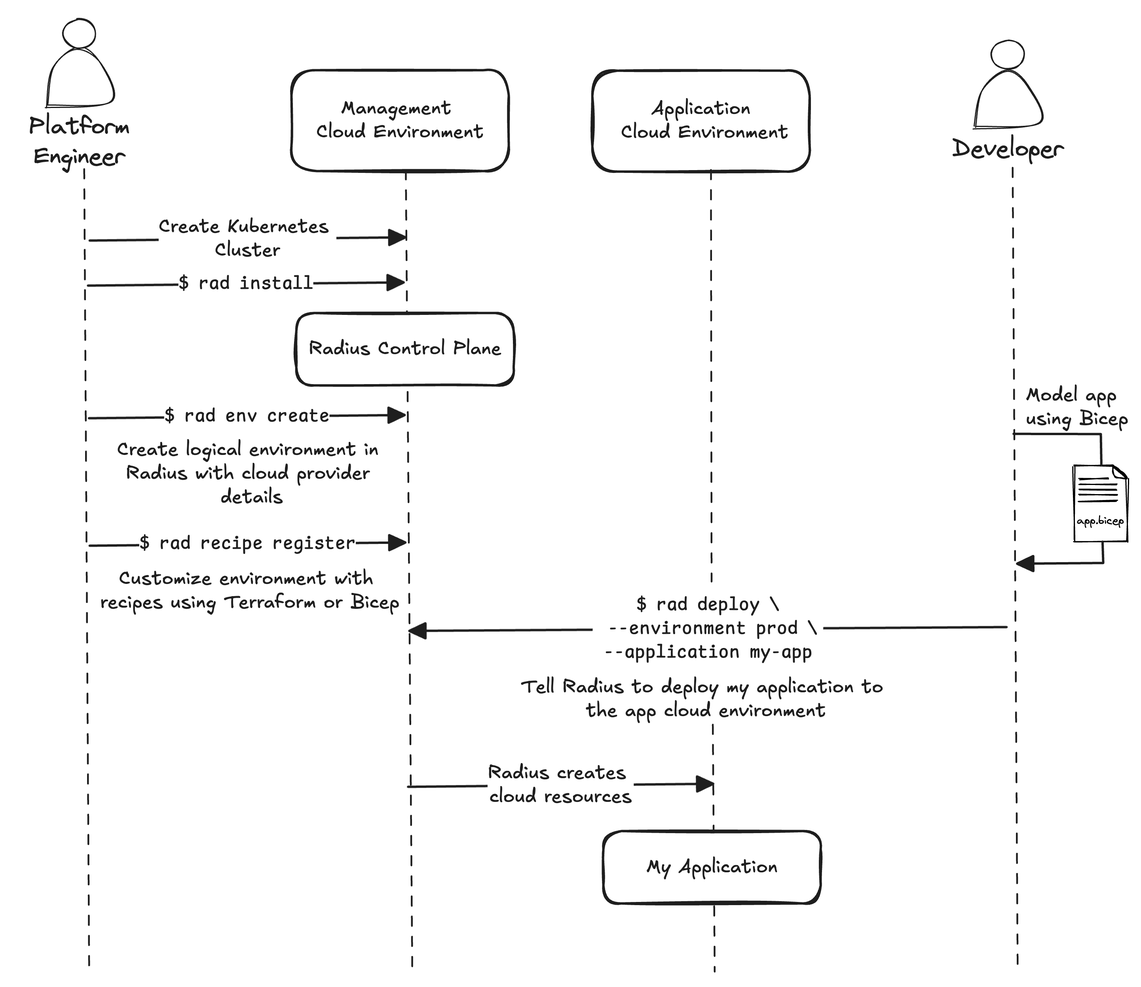
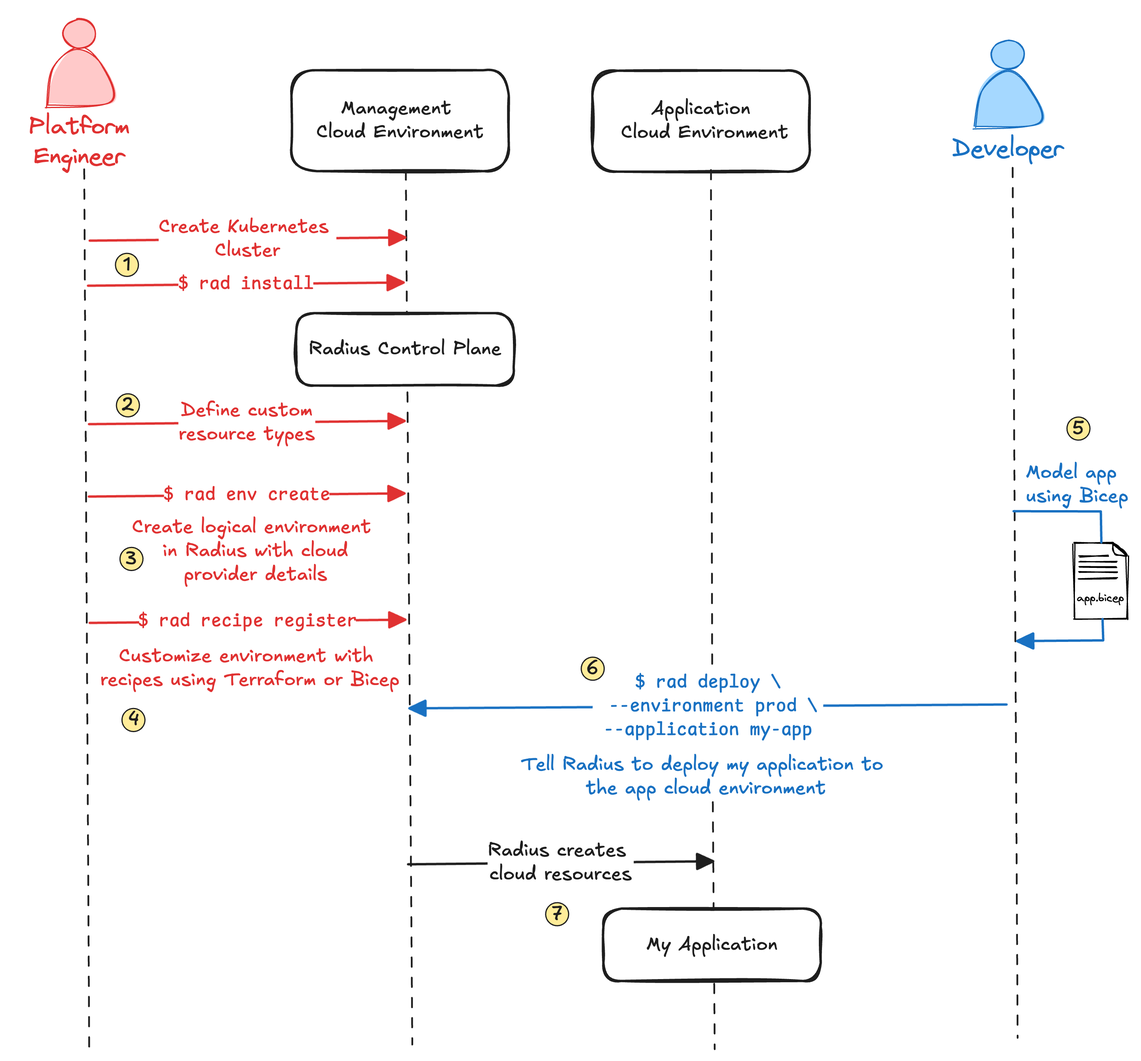
Final draft

diff --git a/radblog/content/posts/2024/what-i-learned-in-six-weeks/index.md b/radblog/content/posts/2024/what-i-learned-in-six-weeks/index.md
@@ -1,76 +1,82 @@
 ---
-date: "2024-10-23T00:00:00"
+date: "2024-10-30T00:00:00"
 title: "What I learned in six weeks working with Radius"
-linkTitle: "What I learned in six weeks"
+linkTitle: "What I learned in six weeks working with Radius"
 author: "[Zach Casper](https://www.linkedin.com/in/zcasper/)"
 type: blog
 ---
 
-I recently joined the Azure Incubations team at Microsoft. In addition to Radius, the Azure Incubations team has helped build several open-source projects including [Dapr](https://dapr.io/), [KEDA](https://keda.sh/), and [Copacetic](https://project-copacetic.github.io/copacetic/website/), all of which are CNCF projects. Before joining the team, I knew very little about Radius aside from watching [Brendan Burns and Mark Russinovich talk about it](https://www.youtube.com/watch?v=gaG77PiYv5w). Over the last six weeks I've learned a lot about how Radius is built, what it can do today, and what is in store for the future. I suspect many readers of this blog are new to Radius just like I was, so let me share with you what I have learned.
+I recently joined the Azure Incubations team at Microsoft. In addition to Radius, the Azure Incubations team has helped build several open-source projects including [Dapr](https://dapr.io/), [KEDA](https://keda.sh/) and [Copacetic](https://project-copacetic.github.io/copacetic/website/) all of which are CNCF projects. [Drasi](https://drasi.io/) is the team's latest project which was just submitted to CNCF. Before joining the team, I knew very little about Radius aside from watching [Brendan Burns and Mark Russinovich talk about it](https://www.youtube.com/watch?v=gaG77PiYv5w). Over the last six weeks I've learned a lot about how Radius is built, what it can do today, and what is in store for the future. I suspect many readers of this blog are new to Radius just like I was, so let me share with you what I have learned.
 
-## Why Radius
+## Platform engineering landscape
 
-I've been working with large organizations for many years helping them adopt cloud-native technologies—mostly managing Kubernetes and serverless infrastructure. Each week, I try to talk with at least one large organization in order to keep a pulse on what challenges are top of mind in the community and what engineering efforts are a priority. I've noticed a few consistent challenges and trends which help me understand why Radius today.
+I've been working with large organizations for many years helping them adopt cloud-native technologies—mostly managing Kubernetes and serverless infrastructure. Each week, I try to talk with at least one large organization in order to keep a pulse on what challenges are top of mind in the community and what engineering efforts are a priority. I've observed several things about the platform engineering landscape recently.
 
 **Increased pressure on platform teams** – Platform teams are being asked to do the same amount of work with fewer resources. In some cases, this is driven by economic reasons. In other cases, it is because companies are shifting resources to make investments in AI. Not only do platform teams have fewer engineers, they are also leading the charge on increasing the efficiency of their cloud environments to reduce operational expense.
 
 **The internal developer platform is becoming standardized** – Internal developer platforms have existed for many years. These platforms shield developers from having to know cloud infrastructure and Kubernetes in-depth as well as to provide CI/CD and observability capabilities. Internal development platforms have become more important as organizations prioritize enforcing security requirements and driving standardization and efficiency. The CNCF platform engineering landscape has also matured. Projects like Backstage, Crossplane, ArgoCD, Flux, and Terraform are popular building blocks. KubeCon now has several co-located events including ArgoCon, BackstageCon, and Platform Engineering Day. And projects like [Cloud Native Operational Excellence](https://cnoe.io/) are starting up to help standardize how internal developer platforms are built.
 
-**Cloud is more than Kubernetes** – There is no need to convince this audience of the power of Kubernetes. It is highly customizable, there is a huge ecosystem around it, and it gives you portability between cloud environments. One thing it does not do is make it possible to provision and manage other cloud services such as managed databases, message queues, networks, and storage services. Teams are often using an infrastructure as code tool such as Terraform for these managed services and Kubernetes tooling for their application.
+**Cloud is more than Kubernetes** – There is no need to convince this audience of the power of Kubernetes. It is highly customizable, there is a huge ecosystem around it, and it gives you portability between cloud environments. One thing it does not do is make it possible to manage or describe an applications end to end. Many applications use manage cloud services running outside of Kubernetes such as managed databases, message queues, networks, and storage services and Kubernetes does not have a concept of an application. Teams are often using a mixture of Kubernetes tooling, basic label functionality in Kubernetes, and infrastructure as code tools for managing their applications.
 
-**Containers don't just run on Kubernetes** – Standing up and operating a production-ready Kubernetes environment is not exactly easy and, for many organizations, it can be overkill. There are many easier-to-operate container platforms such as Azure Container Instances, Azure Container Apps, Amazon ECS/Fargate, and Google CloudRun. I've talked with a surprising number of organizations that are moving from Kubernetes to a non-Kubernetes container platform for lower operational overhead and greater ease of use. The opposite is true as well. Many organizations move from one of these platforms to Kubernetes because they want to take advantage of the Kubernetes ecosystem and are ready to make the investment to setup and operate a Kubernetes environment. Since it takes a significant amount of effort to move between these platforms, engineering teams are making long-term, difficult to reverse, platform decisions well before they have built their application, much less operated it in production.
+**Containers don't just run on Kubernetes** – Standing up and operating a production-ready Kubernetes environment is not easy and, for many organizations, it can be overkill. There are many easier-to-operate container platforms such as Azure Container Instances, Azure Container Apps, Amazon ECS/Fargate, and Google CloudRun. I've talked with a growing number of organizations that are moving from Kubernetes to non-Kubernetes container platforms for lower operational overhead and greater ease of use. The opposite is true as well. Many organizations move from one of these platforms to Kubernetes because they want to take advantage of the Kubernetes ecosystem and are ready to make the investment in an internal developer platform and to setup and operate Kubernetes. Since it takes a significant amount of effort to move between these platforms, engineering teams are making long-term, difficult to reverse, platform decisions well before they have built their application, much less operated it in production.
 
-With these trends and challenges in mind, I've begun to build a vision in my mind of what Radius is and will be.
+With these trends and challenges in mind, I've begun to understand what makes Radius unique.
 
-## Envisioning a Radius of the future
+## What makes Radius unique
 
-After getting some hands-on time, talking with a few platform engineering teams, and getting a tutorial from a few Radius maintainers, I've built up my own personal vision for Radius: *Radius is as an application-centric, platform-agnostic, cloud resource manager. It decouples developer's application implementation and platform engineer's cloud infrastructure configuration*. That's a mouthful—let's unpack that ignoring for a moment what is possible today and what is on the roadmap. I will discuss what is possible today and what is on the roadmap later.
+After getting some hands-on time, talking with a few platform engineering teams, and getting a tutorial from a few Radius maintainers, I've built up my own understanding of what makes Radius unique. I summarize it as: *Radius is an application-centric, platform-agnostic, cloud resource manager which decouples developer's applications from platform engineer's cloud infrastructure*. That's a mouthful—let's unpack that ignoring for a moment what is possible today and what is on the roadmap. I will discuss what is possible today and what is on the roadmap later.
 
-**Application centric** – Unlike similar tools, Radius is application centric. Rather than having to know cloud platform-specific details, developers build their application using a set of application building block resources published by the platform engineering team. These resources can be simple, such as a web service or a database, or they can be complex composite resources such as a *highly available auto-scaling web service with an API gateway, database, and memory cache*. Basic resource types ship with Radius today, but the most interesting resource types will come from community contributors or developed in-house to meet organizational-specific needs.
+**Application centric** – Unlike similar tools, Radius is application centric. Rather than having to know cloud platform-specific details, developers build their application using a set of application building block resources published by the platform engineering team. These resources can be simple, such as a web service or a database, or they can be complex composite resources such as a *highly available auto-scaling web service with an API gateway, database, and memory cache*. Radius ships with basic resource types today, but the most interesting resource types will come from community contributors or developed in-house to meet organizational-specific needs.
 
 Since Radius has deep insight into each application, Radius can track dependencies between applications and application components. If you have ever operated a complex landscape of applications and infrastructure, you know how hard it is to understand dependencies. A single database outage can cause a ripple effect through multiple applications and affect many different business functions. When developers use Radius to model their application, Radius keeps track of connections between cloud resources and between other applications. This enables Radius to show operators an application graph showing dependencies across the entire landscape. This graph can be used to identify business impacts of even the smallest component outage and enrich data in incident management and observability systems.
 
 **Platform agnostic** – Radius enforces separation of duties between platform teams and application developers. The application implementation is decoupled from the infrastructure implementation. Since the contract between developers and cloud environments is defined by a set of abstract resource types published by the platform engineering team, and not by which cloud provider is being used, Radius makes applications highly portable both between different cloud providers and between different container platforms.
 
-**Cloud resource manager** – Radius manages cloud resources locally, in Azure, AWS, and in the future Google Cloud. When a platform engineer creates an environment in Radius, he or she also creates a recipe which implements each of the resource types. Radius recipes are very flexible. They can be implemented using existing Terraform modules or Bicep, an open-source infrastructure as code language for declaratively defining cloud resources. Radius ships with recipes for managing out-of-the-box resource types on each cloud provider, but most platform engineering teams will customize these recipes to meet their organization's unique requirements. For example, a recipe could be written to deploy an Envoy proxy with mTLS enforced without any developer involvement.
+**Cloud resource manager** – When Radius deploys an application, it manages the cloud resources for that application. These resources could be containers running on Kubernetes or managed services from Azure, AWS, or in the future Google Cloud. When a platform engineer creates an environment in Radius, he or she also creates a recipe which implements each of the resource types. Radius recipes are very flexible. They can be implemented using existing Terraform modules or Bicep, an open-source infrastructure as code language for declaratively defining cloud resources. Radius ships with recipes for managing out-of-the-box resource types on each cloud provider, but most platform engineering teams will customize these recipes to meet their organization's unique requirements. For example, a recipe could be written to deploy an Envoy proxy with mTLS enforced without any developer involvement.
 
-## System Architecture
+## System architecture
 
 I'm fortunate enough to have had plenty of time to get hands-on with Radius. I will try to explain my understanding of the system through a series of diagrams.
 
 ### Usage workflow
 
-Radius enforces a clear separation of duties between developers and platform engineers. You can see in the diagram below that the developer models their application using Bicep. When they deploy their application, they select which environment to deploy it to. Radius deploys the application to the selected environment which has customized recipes configured by the platform engineer.
+Radius enforces a clear separation of duties between developers and platform engineers. You can see in the diagram below that the platform engineer has defined the resource types, created an environment, and configured environment-specific recipes. The developer then uses those resource types to model their application.
 
 ![Radius developer and platform engineer workflow](images/workflow.png)
 
-### Logical Data Model
+**Steps 1–4:** The platform engineer installs Radius on a Kubernetes cluster (Radius runs on Kubernetes today, but it is designed to have other deployment options in the future). Then he or she configures the resource types developers will use, the environment applications will be deployed to, and the recipes which implement how each resource type is deployed in that environment.
 
-The diagram below is a conceptual representation of the various Radius objects and how they are related. I simplified some of the details for clarity, so this is not technically accurate. For example, Radius implements applications and environments as a resource, but that is just an implementation detail.
+**Steps 5–6:** The developer uses the resource types to build his or her application. Once the application has been defined in a Bicep file, the developer can use the Radius CLI to deploy the application to one of the environments or rely on their [GitOps CI/CD pipeline](https://github.com/radius-project/design-notes/blob/main/tools/2024-06-gitops-feature-spec.md).
+
+**Step 7:** Radius then uses the application definition from the develop and the recipes from the platform engineer to create resources and deploy the application to the selected environment.
+
+As you can see, Radius gives platform engineers the tools to define a clear contract with their developers via resource types. Recipes give them full control of the underlying infrastructure without having to expose those details to developers. Developers then have self-service access to deploy their application without needing knowledge of Kubernetes or a specific cloud provider's APIs.
+
+### Logical data model
+
+The diagram below is a conceptual representation of the various Radius objects and how they are related. It is simplified from the actual implementation to make it easier to understand.
 
 ![Radius data model](images/data-model.png)
 
-Applications and environments seem obvious, but the other objects are not. Let's walk through each one.
-
-**Application** – This is a Radius object representing your application. Radius is not opinionated about how you define an application so it's up to you. It could be a small microservice or a complex set of containers, databases, message queues, etc. An application is modeled in Radius using Bicep.
+**Application** – This is a Radius object representing an actual application. Radius is not opinionated about how you define an application so it's up to you. It could be a microservice or a complex set of containers, databases, message queues, etc. 
 
 **Resource** – A resource is an application component which is requested in the application's definition. Developers use resources to model their application. Each resource has a type and a version.
 
-**Resource Type** – Radius ships with several [resource types out of the box](https://docs.radapp.io/guides/author-apps/portable-resources/overview/). Out-of-the-box resource types include `Application.Core/containers` and `Application.Core/mongoDatabases` for example. It could be a resource type you have added to your Radius configuration from another community member, or a resource type you have defined and customized for your organization.
+**Resource type** – Radius ships with several [resource types out of the box](https://docs.radapp.io/guides/author-apps/portable-resources/overview/) such as `Application.Core/containers` and `Application.Core/mongoDatabases`. It could be a resource type you have added to your Radius configuration from another community member, or a resource type you have defined and customized for your organization.
 
-**Resource Group** – If you are an Azure user, you may be familiar with Azure resource groups. Radius takes inspiration from these resource groups, and Radius' resource groups are similar. Radius resource groups are a logical grouping of applications and their resources. When you deploy an application with Radius, you choose which resource group to place it in. In the future, resource groups will have their own RBAC rules, so you will be able to group applications together with a shared set of permissions.
-
-**Connection** – Earlier, I talked about the benefits of Radius to operational teams because it tracks dependencies. Connections are how those dependencies are modeled. Each connection denotes which parent resource is connected to, or depends upon, which source resource.
+**Recipe** – I talked about recipes quite a bit above. The only thing to emphasize here is that a recipe is specific to an environment. You could have different sets of recipes for a test environment versus a production environment. In the Envoy mTLS example, a recipe could be written for a test environment that does not deploy an Envoy proxy, but the production environment does without the developer having to worry about Envoy at all.
 
 **Environment** – Environments are straight forward. They are a single place to run applications and all the supporting services. An environment can be your local workstation, an Azure subscription, an AWS account, or a Google Cloud project. You can organize your cloud provider environments the same or completely different than the Radius environments, e.g., one of more Radius environments can use the same Azure subscription or AWS account.
 
-**Recipe** – I talked about recipes quite a bit in the vision section. The only thing to emphasize here is that a recipe is specific to an environment. You could have different sets of recipes for a test environment versus a production environment. In the Envoy mTLS example, a recipe could be written for a test environment that does not deploy an Envoy proxy, but the production environment does without the developer having to worry about Envoy at all.
+**Resource group** – If you are an Azure user, you may be familiar with Azure resource groups. Radius takes inspiration from these resource groups, and Radius' resource groups are similar. Radius resource groups are a logical grouping of applications and their resources. When you deploy an application with Radius, you choose which resource group to place it in. In the future, resource groups will have their own RBAC rules, so you will be able to group applications together with a shared set of permissions.
 
-### Deployment Model
+**Connection** – Earlier, I talked about the benefits of Radius to operational teams because it tracks dependencies. Connections are how those dependencies are modeled. Each connection denotes which parent resource is connected to, or depends upon, which source resource.
+
+### Deployment model
 
 One of my first questions was what does a Radius deployment look like? The diagram below shows a management environment where Radius runs and several application environments. In this example, Radius deploys applications to AWS, Azure, and Google Cloud. Each cloud environment can be configured differently using recipes. You can see that in AWS, Radius is deploying the application to ECS/Fargate, creating an RDS database, and configuring the VPC. In Azure, Radius is creating a resource group for the application, then deploying it using Azure Container Instances and Azure Database. Finally, in Google Cloud, Radius is deploying the application using the Kubernetes API to a GKE cluster and creating a Cloud SQL database and API Gateway.
 
-Remember that in all three of these deployment scenarios, the developer never has to know these details. The application and the application definition never change. In all scenarios, the developer's containers are deployed along with a database. It is the platform engineer who configures the recipes for each cloud environment.
+Remember that in all three of these deployment scenarios, the developer never has to know these details. The application and the application definition never changes. It is the platform engineer who configures the recipes for each cloud environment.
 
 ![Radius deployment model](images/deployment.png)
 
@@ -78,11 +84,11 @@ In addition to deploying the application's containers and databases, recipes can
 
 There are a few other interesting, non-obvious things about how Radius is deployed. You will notice that when the user deploys the application, the Radius CLI makes an API call to the Kubernetes API server for cluster running Radius. This is because Radius uses the [Kubernetes API aggregation layer](https://kubernetes.io/docs/concepts/extend-kubernetes/api-extension/apiserver-aggregation/). This means that the Kubernetes API server proxies API calls to Radius' control plane running on the same cluster. This also means that identity and RBAC is handled by Kubernetes. When you deploy an application using Radius, the Radius control plane (called the Universal Control Plane) creates applications and resources which are stored in the same etcd as the Kubernetes control plane.
 
-## Radius Roadmap
+## Radius roadmap
 
 So far, we have ignored what is possible today and what is coming. There are several features discussed here which are not available today, but are on the roadmap including:
 
-- The ability to define your own resource types is very basic today. Developers can use the [extender resource type](https://docs.radapp.io/reference/resource-schema/core-schema/extender/) and specify their own recipe. This breaks the hard separation between developer and platform engineer. The ability to specify types beyond the extender type is under development now. You can read more in the [user-defined types technical design](https://github.com/radius-project/design-notes/blob/main/architecture/2024-07-user-defined-types.md).
+- The ability to define your own resource types is very basic today. Developers can use the [extender resource type](https://docs.radapp.io/reference/resource-schema/core-schema/extender/) and specify their own recipe. But this breaks the hard separation between developer and platform engineer since the developer is specifying the recipe. The ability to specify types beyond the extender type is under development now. You can read more in the [user-defined types technical design](https://github.com/radius-project/design-notes/blob/main/architecture/2024-07-user-defined-types.md).
 
 - Radius will only deploy containers to the same Kubernetes cluster that is running Radius today. The ability to deploy to [other Kubernetes clusters](https://github.com/orgs/radius-project/projects/8/views/1?pane=issue&itemId=55074612&issue=radius-project%7Croadmap%7C42) and to other [serverless container platforms](https://github.com/radius-project/roadmap/issues/23) are on the roadmap.
 
@@ -92,8 +98,15 @@ So far, we have ignored what is possible today and what is coming. There are sev
 
 You can monitor the Radius roadmap on the [Radius GitHub](https://github.com/orgs/radius-project/projects/8/views/1) page.
 
-## What's Next for Me
+## What's next
 
-There is still a lot for me to learn. I plan to spend more hands-on time modeling existing applications with Radius. The [eShop example](https://docs.radapp.io/tutorials/eshop/) seems like a good real-world application to start with. I also want to learn more about [Dapr](https://dapr.io/). It seems like combining Dapr with Radius is a powerful combination.
+If you want to learn more about Radius, one of the best resources is the monthly Radius community call. Each call has a demo by one of the contributing engineers. Here is a set of deep links to some of the best demos:
 
-I hope this blog post was helpful for others new to Radius. I'm very excited about where we can take Radius. If you have ideas or want to get involved in the project, visit the [Radius Community](https://github.com/radius-project/community) page to learn about our community calls and Discord channel. Or if you have questions or ideas for me, feel free to reach out on [X](https://x.com/zachcasperatx) or [LinkedIn](https://www.linkedin.com/in/zcasper/).
+- [Introductory demo](https://youtu.be/EfGAwli5W4U?si=Wq8S74iUX5iKNVaG&t=1665) (29 minutes)
+- [Recipes](https://youtu.be/DtZnb-uD84I?si=Fj0Hl1GOKGTTaR8T&t=780) (19 minutes)
+- [Radius dashboard](https://youtu.be/JIATTuvsXCs?si=DIp_Spp2OlWCGVkv&t=1500) (9 minutes)
+- [Dapr](https://youtu.be/DtZnb-uD84I?si=59xPFH4gV_FavfL1&t=2211) (16 minutes)
+- [Terraform submodules](https://youtu.be/JDYmY1IRVOs?si=tw6nbpOhgoJsGKYs&t=659) (7 minutes)
+- [Azure workload identity](https://youtu.be/6u014xn_tDA?si=bRkSPkdzuB7i4Bua&t=665) (11 minutes)
+
+I hope this blog post was helpful for others new to Radius. If you have ideas or want to get involved in the project, visit the [Radius Community](https://github.com/radius-project/community) page to learn about our community calls and Discord channel.
